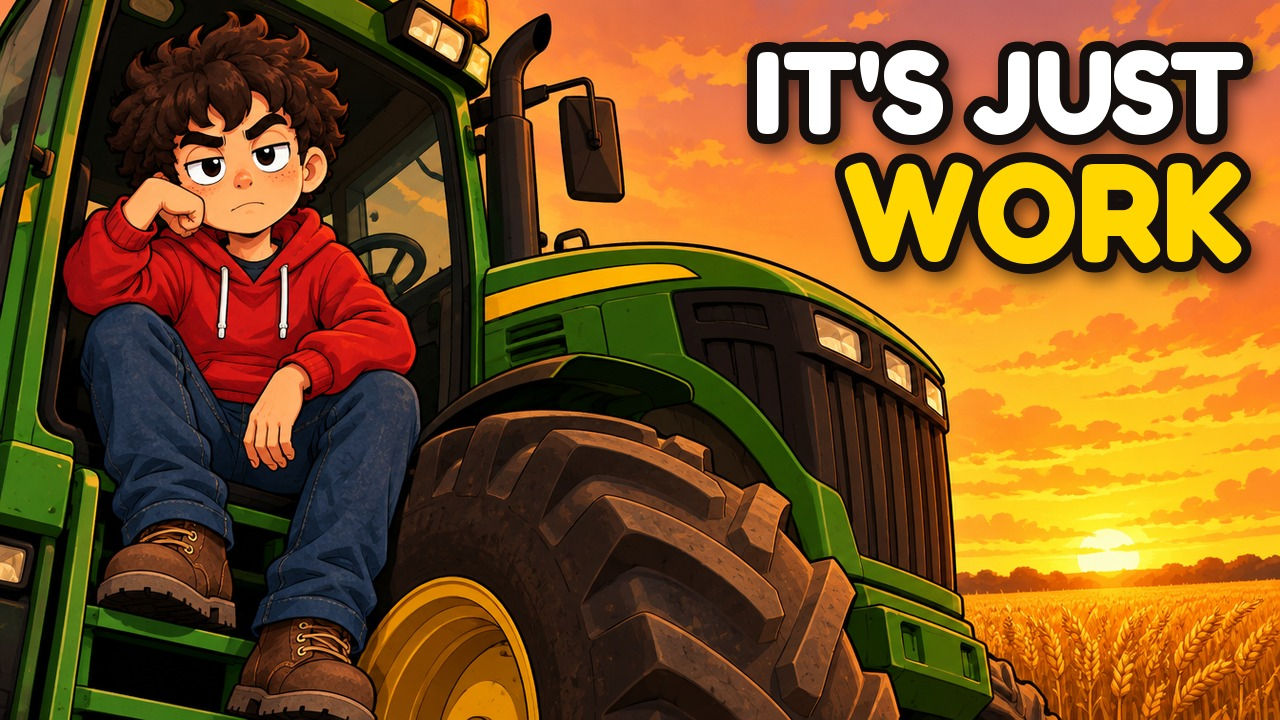
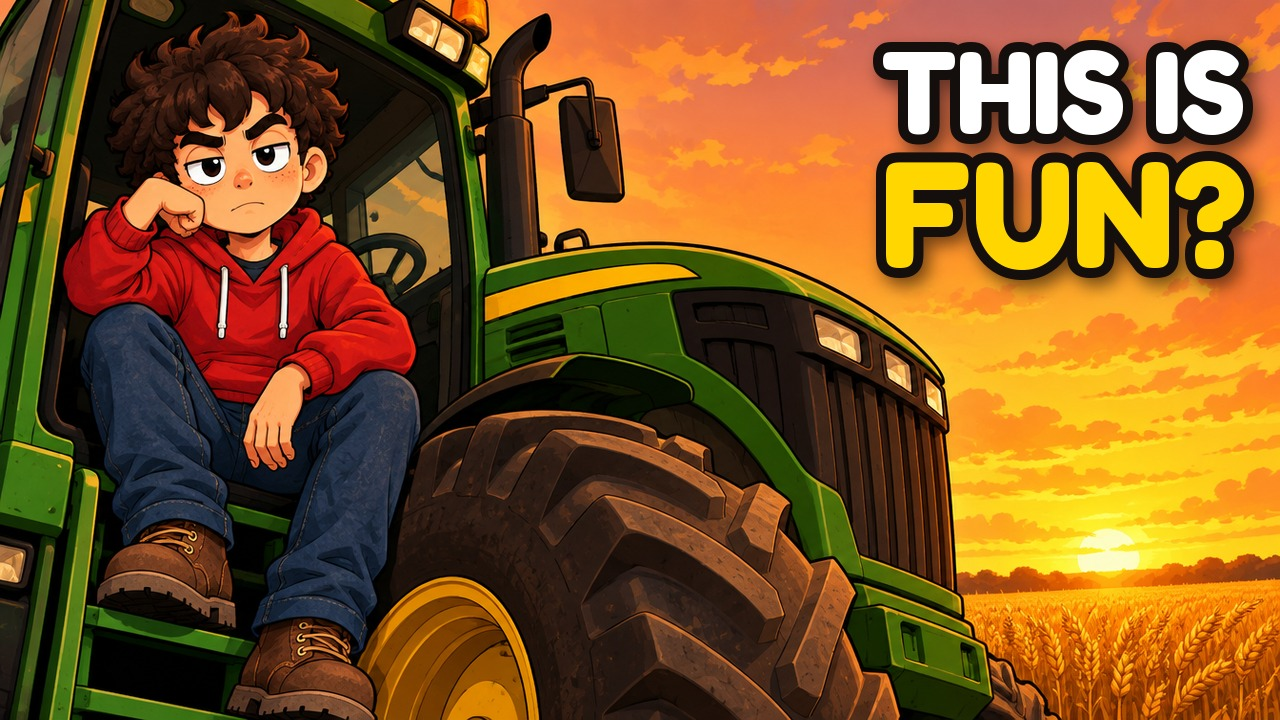
EP001 thumbnails: thumb 1 text 'THIS IS FUN?' (no repeat of title A); package doc updated with final titles/texts
Claude-Session: https://claude.ai/code/session_01Bi3PXNKGSfsqTH99bT8fk5

Changed region(s): [[0.5625, 0.0306, 1.0, 0.4278]]

diff --git a/secondquest/docs/publish/EP001/EP001_PUBLISH_PACKAGE.md b/secondquest/docs/publish/EP001/EP001_PUBLISH_PACKAGE.md
@@ -21,7 +21,8 @@ Reglas aplicadas:
 | | Título | Caracteres | Para qué |
 |---|---|---|---|
 | **A** | Farming Simulator: Why Millions Play a Game About Work | 54 | Búsqueda: "Farming Simulator" va primero, más el giro de "about work" |
-| **B** | Why Do Millions of People Play a Game About Farming? | 52 | Curiosidad: la pregunta del episodio |
+| **B** | Farming Simulator Is Just Work… So Why Is It So Fun? | 52 | Curiosidad: la contradicción más directa y extrema |
+| C (respaldo) | Why Do Millions of People Play a Game About Farming? | 52 | El título original del episodio |
 
 **Cómo usarlos:** publica con el **A** y activa Test & Compare con el **B** (YouTube Studio en computador → Detalles → *A/B Testing*). YouTube elige al ganador por tiempo de visualización, en unos días a dos semanas.
 
@@ -94,8 +95,13 @@ Con los dos, el vídeo llega también al público hispano, y los subtítulos exa
 
 | Variante | Expresión de Quest | Texto | Idea |
 |---|---|---|---|
-| **1** | Cansado e incrédulo ("¿en serio?") | **IT'S JUST WORK** | Contradicción: un juego que es trabajo |
-| **2** | Muy emocionado, brazos arriba | **BEST NIGHT EVER** | Ironía: una noche emocionante… cultivando |
+| **1** | Cansado e incrédulo ("¿en serio?") | **THIS IS FUN?** | Contradicción, sin repetir "work" del título A |
+| **2** | Muy emocionado, brazos arriba | **BEST DAY EVER** | Ironía: el mejor día… trabajando el campo |
 | **3** | Asombrado, señalando el tractor | **$500,000 TRACTOR** | Lo extremo (MrBeast: "cuanto más extremo, mejor") |
 
 **Generación:** se genera la imagen sin texto en Higgsfield (gpt_image_2_5, 16:9, con referencias de cara de Quest_v1), a unos **0,5–1 crédito por imagen**, con un máximo de 2 intentos por imagen. El texto se pone después, de forma programática, con la tipografía del canal; así queda nítido y se puede cambiar gratis.
+
+**Decisión final (2026-10-02):**
+- Se publica con la miniatura **3** ("$500,000 TRACTOR") y el título **A**.
+- La 1 ("THIS IS FUN?") y la 2 ("BEST DAY EVER") quedan para Test & Compare; el título B, también.
+- Los archivos están en `thumbnails/`.
